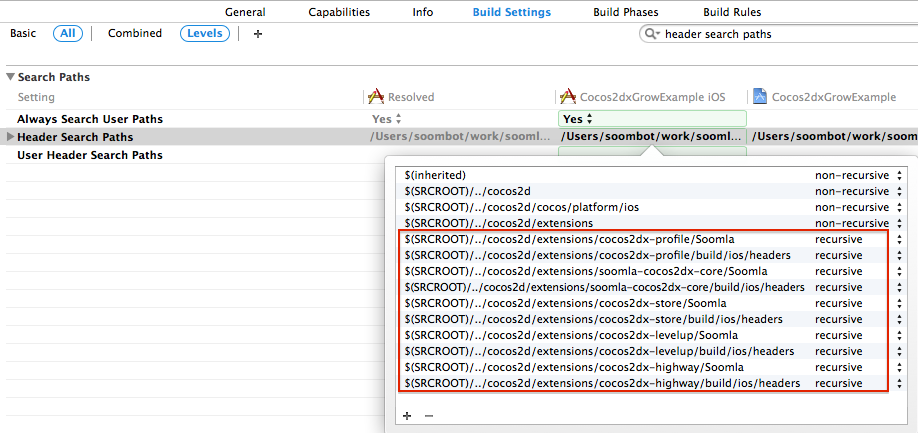
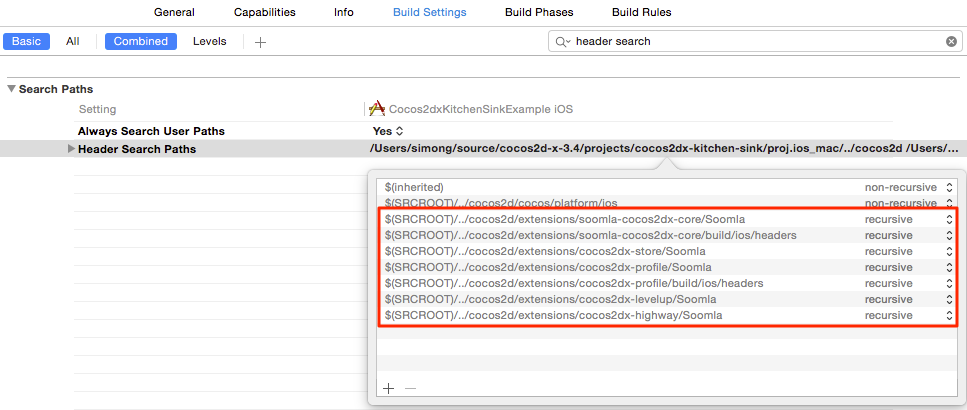
updating getting started grow

Changed region(s): [[0.0, 0.0, 1.0, 1.0]]

diff --git a/src/documents/cocos2dx/grow/Grow_GettingStarted.html.md b/src/documents/cocos2dx/grow/Grow_GettingStarted.html.md
@@ -40,18 +40,15 @@ Go to the [GROW dashboard](http://dashboard.soom.la) and sign up \ login. Upon l
   #include "Cocos2dxHighway.h"
   ```
 
-6. Initialize `CCServiceManager` with a custom secret of your choice:
+6. Initialize `CCSoomla` with a custom secret of your choice (**Custom Secret** is an encryption secret you provide that will be used to secure your data.):
 
   ```cpp
-  __Dictionary *commonParams = __Dictionary::create();
-  commonParams->setObject(__String::create("ExampleCustomSecret"), "customSecret");
-  soomla::CCServiceManager::getInstance()->setCommonParams(commonParams);
+  soomla::CCSoomla::initialize("ExampleCustomSecret");
   ```
 
-  <div class="warning-box">Choose this secret wisely, you can't change it after you launch your game!
-  <br>Initialize `CCLevelUpService` ONLY ONCE when your application loads.</div>
+  <div class="warning-box">Choose this secret wisely, you can't change it after you launch your game!</div>
 
-7. Initialize `CCHighwayService` with the "Game Key" and "Env Key" given to you in the [dashboard](http://dashboard.soom.la):
+7. Initialize `CCSoomlaHighway` with the "Game Key" and "Env Key" given to you in the [dashboard](http://dashboard.soom.la):
 
   **Copy the "Game Key" and "Environment Key"** given to you from the [dashboard](http://dashboard.soom.la) and initialize `CCSoomlaHighway` with them. At this point, you're probably testing your integration and you want to use the **Sandbox** environment key.
 
@@ -65,25 +62,8 @@ Go to the [GROW dashboard](http://dashboard.soom.la) and sign up \ login. Upon l
 
   ![alt text](/img/tutorial_img/cocos_grow/dashboardKeys.png "Keys")
 
-8. Initialize the rest of the SOOMLA modules: `CCStoreService`, `CCProfileService`, and `CCLevelUpService`. **Custom Secret** is an encryption secret you provide that will be used to secure your data.
-
-    ```cpp
-    // `assets` should implement the `IStoreAssets` interface
-    // and should include your entire virtual economy
-    __Dictionary *storeParams = __Dictionary::create();
-    storeParams->setObject(__String::create("ExamplePublicKey"), "androidPublicKey");
-    soomla::CCStoreService::initShared(assets, storeParams);
-
-    __Dictionary *profileParams = __Dictionary::create();
-    soomla::CCProfileService::initShared(profileParams);
-
-    // `initialWorld` should contain all worlds and levels of the game
-    // rewards should contain a list of all rewards of the game
-    soomla::CCLevelUpService::initShared();
-    soomla::CCLevelUp::getInstance()->initialize(initialWorld, rewards);
-    ```
-
-9. Make sure to include the relevant headers where needed:
+  <div class="warning-box">Initialize `CCSoomlaHighway` ONLY ONCE when your application loads.</div>
+8. Make sure to include the relevant headers:
 
     ```cpp
     #include "Cocos2dxStore.h"
@@ -93,6 +73,24 @@ Go to the [GROW dashboard](http://dashboard.soom.la) and sign up \ login. Upon l
     #include "Cocos2dxLevelUp.h"
     ```
 
+9. Initialize the rest of the SOOMLA modules: `CCSoomlaStore`, `CCSoomlaProfile`, and `CCSoomlaLevelUp`.
+
+    ```cpp
+    // `assets` should implement the `CCStoreAssets` interface
+    // and should include your entire virtual economy
+    YourImplementationAssets *assets = YourImplementationAssets::create();
+
+    __Dictionary *storeParams = __Dictionary::create();
+    soomla::CCSoomlaStore::initialize(assets, storeParams);
+
+    __Dictionary *profileParams = __Dictionary::create();
+    soomla::CCSoomlaProfile::initialize(profileParams);
+
+    // initialWorld - should be created here and contain all worlds and levels of the game
+    // rewards - should contain a list of all rewards that are given through LevelUp
+    soomla::CCSoomlaLevelUp::getInstance()->initialize(initialWorld, rewards);
+    ```
+
 <br>
 <div class="info-box">The next steps are different according to which native platform you are building for.</div>
 
@@ -100,7 +98,7 @@ Go to the [GROW dashboard](http://dashboard.soom.la) and sign up \ login. Upon l
 
 In your XCode project, perform the following steps:
 
-1. Add `jansson` (**external/jansson/**) to your project (just add it as a source folder).
+1. Add `jansson` (**external/jansson/**) to your project (just add it as a source folder, make sure to check "create group").
 
 2. For each of the following XCode projects:
 
@@ -125,13 +123,10 @@ In your XCode project, perform the following steps:
  - `$(SRCROOT)/../cocos2d/extensions/soomla-cocos2dx-core/Soomla`
  - `$(SRCROOT)/../cocos2d/extensions/soomla-cocos2dx-core/build/ios/headers`
  - `$(SRCROOT)/../cocos2d/extensions/cocos2dx-store/Soomla`
- - `$(SRCROOT)/../cocos2d/extensions/cocos2dx-store/build/ios/headers`
  - `$(SRCROOT)/../cocos2d/extensions/cocos2dx-profile/Soomla`
  - `$(SRCROOT)/../cocos2d/extensions/cocos2dx-profile/build/ios/headers`
  - `$(SRCROOT)/../cocos2d/extensions/cocos2dx-levelup/Soomla`
- - `$(SRCROOT)/../cocos2d/extensions/cocos2dx-levelup/build/ios/headers`
  - `$(SRCROOT)/../cocos2d/extensions/cocos2dx-highway/Soomla`
- - `$(SRCROOT)/../cocos2d/extensions/cocos2dx-highway/build/ios/headers`
 
   ![alt text](/img/tutorial_img/cocos_grow/headerSP.png "Header search paths")
 
@@ -143,36 +138,7 @@ In your XCode project, perform the following steps:
 
   ![alt text](/img/tutorial_img/ios_getting_started/linkerFlags.png "Linker Flags")
 
-6. To register services on the native application (`AppController`):
-
-  a. Import the following headers:
-    ```cpp
-    #import "ServiceManager.h"
-    #import "Cocos2dXSoomlaHighway.h"
-    #import "StoreService.h"
-    #import "ProfileService.h"
-    #import "LevelUpService.h"
-    ```
-
-  b. Register the native `Cocos2dXSoomlaHighway`, `StoreService`, `ProfileService`, and `LevelUpService` by adding:
-
-    ```cpp
-    [[ServiceManager sharedServiceManager]
-      registerService:[Cocos2dXSoomlaHighway sharedCocos2dXSoomlaHighway]];
-
-    [[ServiceManager sharedServiceManager]
-      registerService:[StoreService sharedStoreService]];
-
-    [[ServiceManager sharedServiceManager]
-      registerService:[ProfileService sharedProfileService]];
-
-    [[ServiceManager sharedServiceManager]
-      registerService:[LevelUpService sharedLevelUpService]];
-    ```
-
-    at the beginning of the method `application: didFinishLaunchingWithOptions:` of `AppController`.
-
-7. Make sure you have these 7 Frameworks linked to your XCode project:
+6. Make sure you have these 7 Frameworks linked to your XCode project:
 
   - Security
   - libsqlite3.0.dylib
@@ -182,7 +148,7 @@ In your XCode project, perform the following steps:
   - SystemConfguration
   - AdSupport
 
-8. Connect the Profile module to a social network provider:
+7. Connect the Profile module to a social network provider:
 
   - [Facebook](/cocos2dx/profile/Profile_GettingStarted#facebook-for-ios)
 
@@ -258,42 +224,7 @@ That's it! Now all you have to do is build your XCode project and run your game.
 
     - Cocos2dxAndroidLevelUp.jar
 
-3. In your game's main `Cocos2dxActivity`, call the following in the `onCreateView` method:
-
-  ``` java
-  public Cocos2dxGLSurfaceView onCreateView() {
-    ...
-
-    // initialize services
-    final ServiceManager serviceManager = ServiceManager.getInstance();
-    serviceManager.setActivity(this);
-    serviceManager.setGlSurfaceView(glSurfaceView);
-
-    serviceManager.registerService(Cocos2dXHighwayService.getInstance());
-    serviceManager.registerService(StoreService.getInstance());
-    serviceManager.registerService(ProfileService.getInstance());
-    serviceManager.registerService(LevelUpService.getInstance());
-    ...
-  }
-  ```
-
-4. Override `onPause`, `onResume`:
-
-  ``` java
-  @Override
-  protected void onPause() {
-      super.onPause();
-      ServiceManager.getInstance().onPause();
-  }
-
-  @Override
-  protected void onResume() {
-      ServiceManager.getInstance().onResume();
-      super.onResume();
-  }
-  ```
-
-5. Update your `AndroidManifest.xml`:
+4. Update your `AndroidManifest.xml`:
 
   ``` xml
   <uses-permission android:name="android.permission.INTERNET"/>
@@ -316,13 +247,13 @@ That's it! Now all you have to do is build your XCode project and run your game.
   </application>
   ```
 
-6. Connect the Store module to your desired billing service:
+5. Connect the Store module to your desired billing service:
 
   - [Google Play](/cocos2dx/store/Store_GettingStarted#google-play)
 
   - [Amazon Appstore](/cocos2dx/store/Store_GettingStarted#amazon)
 
-7. Connect the Profile module to a social network provider:
+6. Connect the Profile module to a social network provider:
 
   - [Facebook](/cocos2dx/profile/Profile_GettingStarted#facebook-for-android)
 
@@ -347,10 +278,10 @@ And that's it! You have in-app purchasing, social engagement, and game architect
 
 Below is a short example of how to initialize SOOMLA's modules. We suggest you read about the different modules and their entities in SOOMLA's Knowledge Base: [Store](/cocos2dx/store/Store_Model), [Profile](/cocos2dx/profile/Profile_MainClasses), and [LevelUp](/cocos2dx/levelup/Levelup_Model).
 
-###IStoreAssets
+###CCStoreAssets
 
 ```cpp
-/** ExampleAssets (your implementation of IStoreAssets) **/
+/** ExampleAssets (your implementation of CCStoreAssets) **/
 CCVirtualCurrency *coinCurrency = CCVirtualCurrency::create(
   CCString::create("Coins"),
   CCString::create(""),
@@ -413,26 +344,22 @@ CCMission *mission = CCBalanceMission::create(
 // Add 5 levels to the main world with the gate, score, and mission templates we just created.
 mainWorld->batchAddLevelsWithTemplates(5, gate, score, mission);
 
+/** Set the custom secret **/
+soomla::CCSoomla::initialize("ExampleCustomSecret");
+
 /** Initialize Highway **/
 soomla::CCSoomlaHighway::initShared(__String::create("yourGameKey"), __String::create("yourEnvKey"));
 
 /** Set up and initialize Core, Store, Profile, and LevelUp **/
-ExampleAssets *assets = MuffinRushAssets::create();
-
-__Dictionary *commonParams = __Dictionary::create();
-commonParams->setObject(__String::create("ExampleCustomSecret"), "customSecret");
+ExampleAssets *assets = ExampleAssets::create();
 
 __Dictionary *storeParams = __Dictionary::create();
 storeParams->setObject(__String::create("ExamplePublicKey"), "androidPublicKey");
 
+soomla::CCSoomlaStore::initialize(assets, storeParams);
+
 __Dictionary *profileParams = __Dictionary::create();
+soomla::CCSoomlaProfile::initialize(profileParams);
 
-soomla::CCServiceManager::getInstance()->setCommonParams(commonParams);
-
-soomla::CCStoreService::initShared(assets, storeParams);
-
-soomla::CCProfileService::initShared(profileParams);
-
-soomla::CCLevelUpService::initShared();
-soomla::CCLevelUp::getInstance()->initialize(mainWorld, NULL);
+soomla::CCSoomlaLevelUp::getInstance()->initialize(mainWorld, NULL);
 ```
